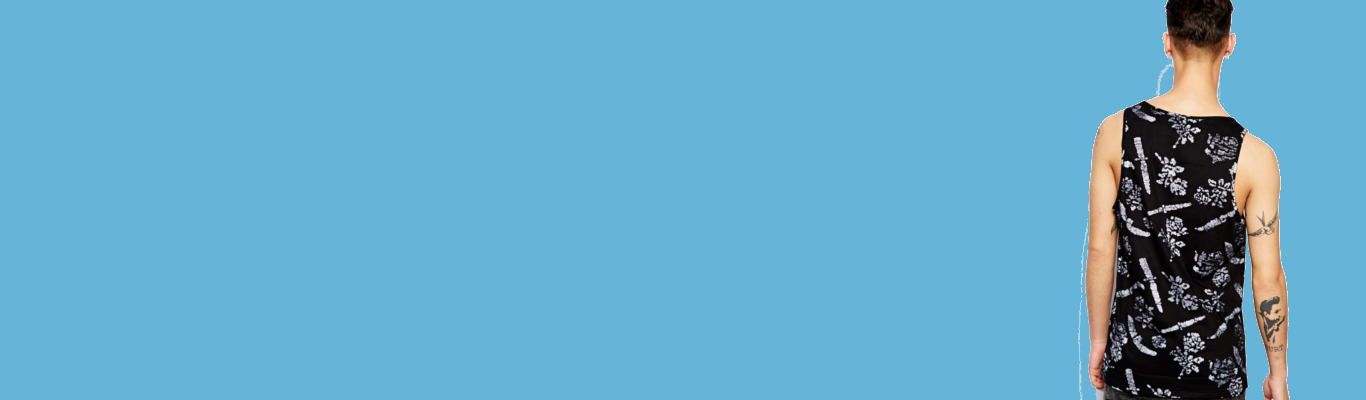
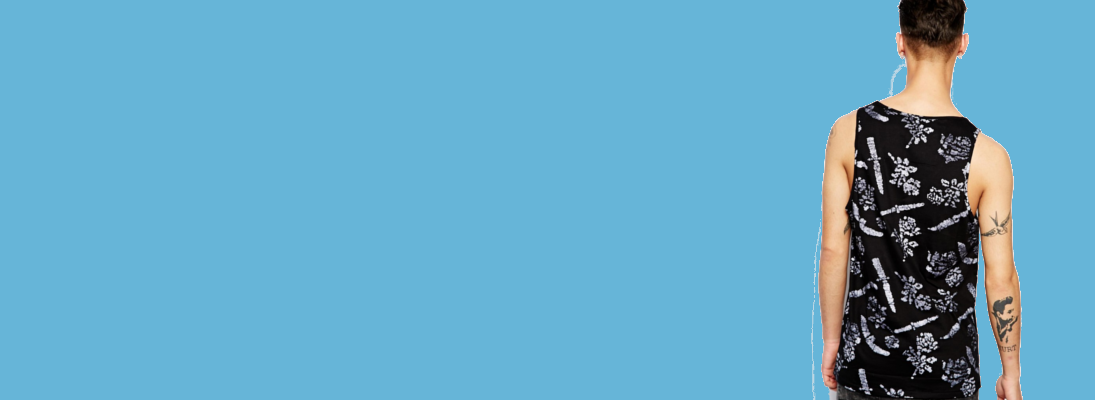
styling carousel done

Changed region(s): [[0.7452, 0.0, 0.9626, 1.0]]

diff --git a/template/home.html b/template/home.html
@@ -5,6 +5,8 @@
 <title>Cupumanik</title>
 <link href='https://fonts.googleapis.com/css?family=Raleway'
 	rel='stylesheet' type='text/css'>
+<link href='https://fonts.googleapis.com/css?family=Montserrat' rel='stylesheet' type='text/css'>
+<link href='https://fonts.googleapis.com/css?family=Alegreya' rel='stylesheet' type='text/css'>
 <link rel="stylesheet" href="../css/style.css">
 <link rel="stylesheet" href="cupumanik-style.css">
 <link rel="stylesheet"
@@ -48,39 +50,47 @@
   		</ol>
   		
   		<div class="carousel-inner" role="listbox">
-  			<div class="item active">
-      			<img src="../assets/carousel1a.png" alt="Rok Batik Panjang">
+  			<div class="item active" style="background: url('../assets/carousel1a.png') no-repeat right top; background-size: cover">
+      			<!-- <img src="../assets/carousel1a.png" alt="Rok Batik Panjang">  -->
       			<div class="carousel-caption">
-        			<h3>Rok Batik Panjang</h3>
-        			<p>Rp 125.000,00</p>
-        			<button class="btn btn-info">Detail</button>
+      				<div class="carousel-text">
+      					<h2 class="product-title">Rok Batik Panjang</h2>
+        				<h4 class="product-price">Rp 125.000,00</h4>
+        				<button class="btn btn-info">Detail</button>
+      				</div>
       			</div>
     		</div>
     		
-    		<div class="item">
-      			<img src="../assets/carousel2a.png" alt="Celana Batik Skinny">
+    		<div class="item" style="background: url('../assets/carousel2a.png') no-repeat right top; background-size: cover">
+      			<!-- <img src="../assets/carousel2a.png" alt="Celana Batik Skinny">  -->
       			<div class="carousel-caption">
-        			<h3>Celana Batik Skinny</h3>
-        			<p>Rp 180.000,00</p>
-        			<button class="btn btn-info">Detail</button>
+        			<div class="carousel-text">
+        				<h2 class="product-title">Celana Batik Skinny</h2>
+        				<h4 class="product-price">Rp 180.000,00</h4>
+        				<button class="btn btn-info">Detail</button>
+        			</div>
       			</div>
     		</div>
     		
-    		<div class="item">
-      			<img src="../assets/carousel3a.png" alt="Kaos Batik Sleeveless Pria">
+    		<div class="item" style="background: url('../assets/carousel3a.png') no-repeat right top; background-size: cover">
+      			<!-- <img src="../assets/carousel3a.png" alt="Kaos Batik Sleeveless Pria">  -->
       			<div class="carousel-caption">
-        			<h3>Kaos Batik Sleeveless Pria</h3>
-        			<p>Rp 137.000,00</p>
-        			<button class="btn btn-info">Detail</button>
+        			<div class="carousel-text">
+        				<h2 class="product-title">Kaos Batik Sleeveless Pria</h2>
+        				<h4 class="product-price">Rp 137.000,00</h4>
+        				<button class="btn btn-info">Detail</button>
+        			</div>
       			</div>
     		</div>
     		
-    		<div class="item">
-      			<img src="../assets/carousel4a.png" alt="Kaos Batik Santai Wanita">
+    		<div class="item" style="background: url('../assets/carousel4a.png') no-repeat right top; background-size: cover">
+      			<!-- <img src="../assets/carousel4a.png" alt="Kaos Batik Santai Wanita"> -->
       			<div class="carousel-caption">
-        			<h3>Celana Batik Skinny</h3>
-        			<p>Rp 202.000,00</p>
-        			<button class="btn btn-info">Detail</button>
+        			<div class="carousel-text">
+        				<h2 class="product-title">Kaos Batik Santai Wanita</h2>
+        				<h4 class="product-price">Rp 202.000,00</h4>
+        				<button class="btn btn-info">Detail</button>
+        			</div>
       			</div>
     		</div>
   		</div>

diff --git a/template/cupumanik-style.css b/template/cupumanik-style.css
@@ -48,3 +48,51 @@ body
 .nav-menu li:last-child {
 	border-left: 3px solid #bbb;
 }
+
+.carousel .item {
+	min-height: 500px;
+	
+}
+
+.carousel-caption {
+	width: 27%;
+	background-color: rgba(26, 26, 26, 0.5);
+	margin: 0;
+	padding: 1%;
+	padding-top: 300px !important;
+	min-height: 500px;
+	bottom: 0 !important;
+}
+
+.carousel-caption h2, .carousel-caption h4, .carousel-caption button {
+	text-align: left;	
+}
+
+.carousel-caption button {
+	left: 0 !important;
+	float: left;
+}
+
+.product-title {
+	font-family: 'Alegreya', Georgia;
+}
+
+.product-price {
+	font-family: 'Montserrat', Helvetica;
+	color: #f55;
+}
+
+.carousel-text {
+	bottom: 100px !important;
+}
+
+.btn-info {
+	border: none !important;
+	border-radius: 0 !important;
+	background-color: #08a !important;
+	font-family: 'Raleway', Serif;
+}
+
+/*.carousel-inner img {
+	height: 500px !important;
+}*/
